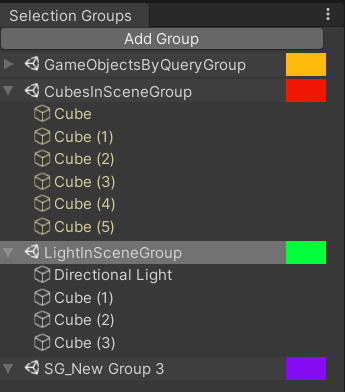
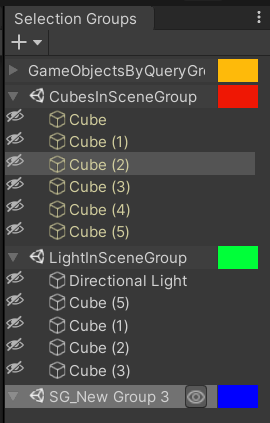
doc: update the group creation section in Getting Started and SelectionGroupsWindow pages (#239)
* update steps to create an empty group in Getting Started page
* update SelectionGroupsWindow page
* update images

Others:
* mention how to hide SelectionGroup GameObjects
* fix the location of SelectionGroupTools image in Getting Started page

diff --git a/Documentation~/selection-groups-window.md b/Documentation~/selection-groups-window.md
@@ -7,19 +7,20 @@ We can do the following operations in the window.
 
 |**Operations**          |**How** |
 |:---                    |:---|
-| **Creating a group**   | Click on the **Add Group** button. |
-| **Deleting a group**   | Select a group and press the Delete key, or right click on the group and choose **Delete Group**. |
-| **Changing a group order**   | Select a group and drag it to the desired order in the window. |
-| **Adding group members**    | Drag **GameObjects** from the Hierarchy window, assets from the Project window, or members of other groups, into the applicable group.|
-| **Moving group members**    | Select members of other groups, and drag them while pressing any Control key into the applicable group.|
-| **Removing group members**  | Select the group members and press the Delete key, or right click on the group and choose **Remove From Group**. <br/> To clear all members, right click on the group and choose "Clear Group".|
-| **Selecting all group members**  | Double click on the group, or right click on the group and choose "Select All Group Members". <br/> To select all members of all groups, go to **Edit > Select All**.|
+| **Create an empty group**  | Click the `+` button and select "Create Empty Group". |
+| **Create a group using selected objects**  | Click the `+` button and select "Create Group from Selection". |
+| **Delete a group**   | Select a group and press the Delete key, or right click on the group and choose **Delete Group**. |
+| **Change a group order**   | Select a group and drag it to the desired order in the window. |
+| **Add group members**    | Drag **GameObjects** from the Hierarchy window, assets from the Project window, or members of other groups, into the applicable group.|
+| **Move group members**    | Select members of other groups, and drag them while pressing any Control key into the applicable group.|
+| **Remove group members**  | Select the group members and press the Delete key, or right click on the group and choose **Remove From Group**. <br/> To clear all members, right click on the group and choose "Clear Group".|
+| **Select all group members**  | Double click on the group, or right click on the group and choose "Select All Group Members". <br/> To select all members of all groups, go to **Edit > Select All**.|
 
 We can also use the following key modifiers to maintain the current selection
 when clicking on a group member.
 
 |**Key**  |**Use** |
-|:---                    |:---|
+|:---     |:---|
 | Ctrl | Add the group member into the current selection. |
 | Ctrl+Shift | Add group members from the last selected member to the clicked member into the current selection.|
 

diff --git a/Documentation~/index.md b/Documentation~/index.md
@@ -21,10 +21,16 @@ Please refer to the [installation](installation.md) page to install Selection Gr
 
    ![](images/SelectionGroupsWindowNextToHierarchy.png)
 
-1. Click “Add Group” in the [Selection Groups window](selection-groups-window.md), and a new item will appear inside the window.   
+1. Click the `+` button and select "Create Empty Group".  
+   This will create a new item inside the window, and a new group **GameObject** in the Hierarchy.
+
+   ![](images/SelectionGroupsWindowCreateEmptyGroup.png)
+   
+   > Group **GameObjects** can be hidden via [ProjectSettings](project-settings.md)
+   
 1. Drag some **GameObjects** from the hierarchy, or assets from the Project window. 
    
-   ![](images/SelectionGroupMembers.png)
+   ![](images/SelectionGroupsWindowAssignMembers.png)
 
 1. Click the group name, and the inspector window will display the following properties:
 
@@ -35,9 +41,9 @@ Please refer to the [installation](installation.md) page to install Selection Gr
    | **Group name**      | identical to the name of the group **GameObject**.|
    | **Color**           | The color of the group shown in the [Selection Groups Window](selection-groups-window.md).|
    | **Group Query**     | Specifies a query which will automatically assign **GameObjects** from the hierarchy that match the query to the group. <br/> See the [GoQL](goql.md) documentation for more information.|
-   | **Toolbar Buttons** | Enables/disables the following toolbar items for the group in the [Selection Groups Window](selection-groups-window.md). <br/> 1. Eye: to show or hide all the **GameObjects** in the group. <br/> 2. Lock: to enable or disable the editing of all the **GameObjects** in the group. |
+   | **Toolbar Buttons** | Enables/disables the following toolbar items for the group in the [Selection Groups Window](selection-groups-window.md). <br/> 1. Eye: to show or hide all the **GameObjects** in the group. <br/> 2. Lock: to enable or disable the editing of all the **GameObjects** in the group. <br/> <br/> ![](images/SelectionGroupTools.png) |
 
-   ![](images/SelectionGroupTools.png)
+   
 
 # Features
 1. [GoQL](goql.md)
